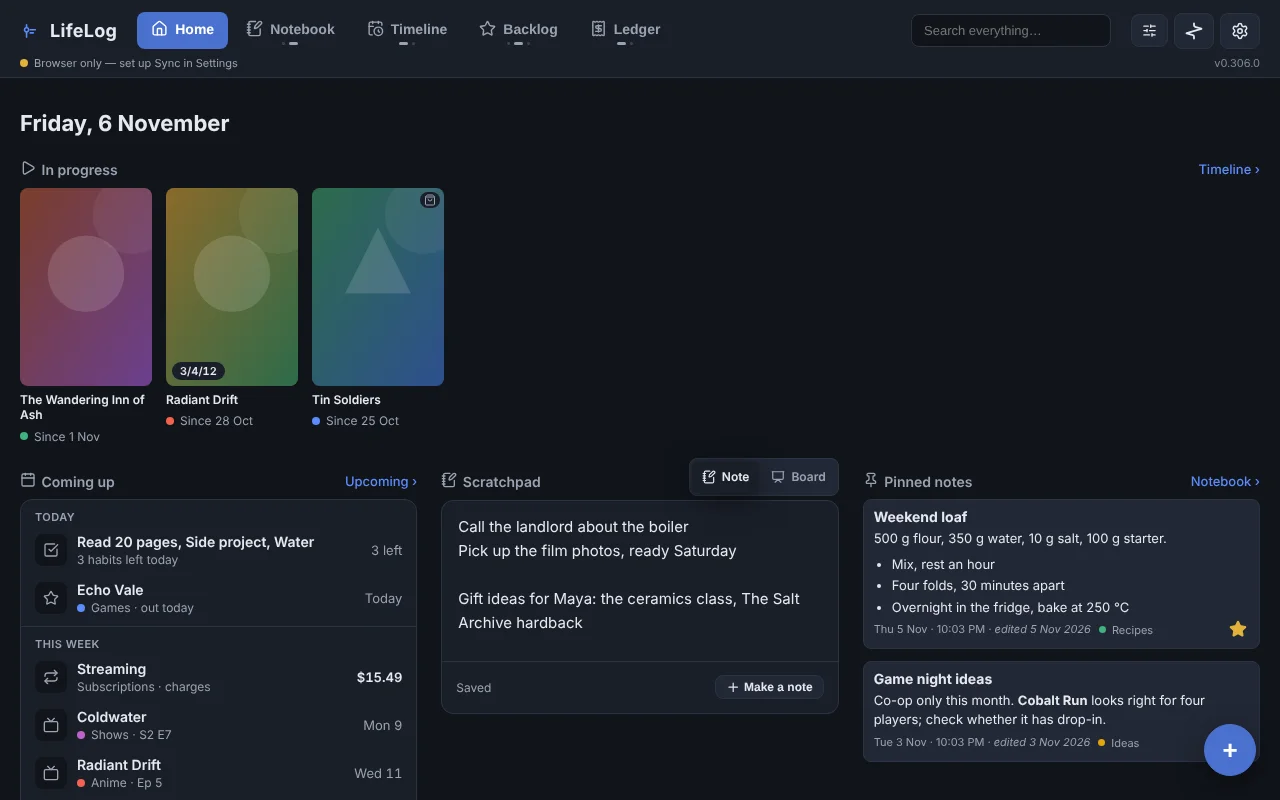
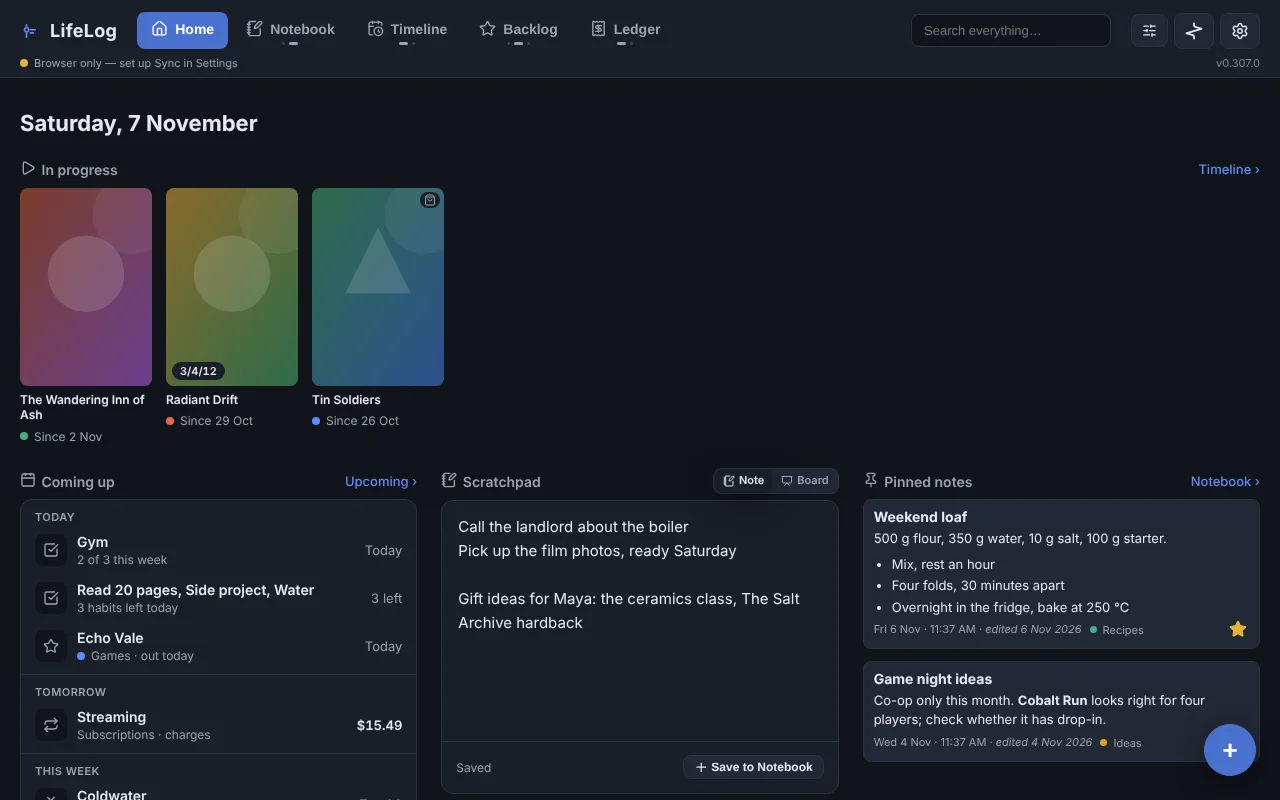
Home: slimmer Note / Board switch, no labels in Board, same height as the note (#59)
* Home: a slimmer Note / Board switch, no labels in Board, board as tall as the note

Daniel (2026-11-07): the switch was too tall, Board didn't need the Tap to
draw or foot labels, and Note and Board should be the same height. The
switch is 22px (28px on a phone) with a ::after tap area, so the head no
longer needs negative margins. The board measures what the text pad would
be (min 160px) with a hidden probe. Also: test/home.test.js found the daily
habit row by position, which broke on the last day of a week.

Claude-Session: https://claude.ai/code/session_01CFeKrjpXijdgWwZ1YkV6xG

* Home: a taller scratchpad, and Save to Notebook in both Note and Board

Daniel (2026-11-07): make the scratchpad a bit taller, and the Make a note /
Keep as a board button can just be Save to Notebook. The pad and the board
start at 240px (was 160px). The bridge tool keeps its keep option; only its
description and DATA.md name the new button.

Claude-Session: https://claude.ai/code/session_01CFeKrjpXijdgWwZ1YkV6xG

---------

diff --git a/test/browser/home.js b/test/browser/home.js
@@ -75,9 +75,9 @@ const SEED = {
   await page.reload({ waitUntil: "networkidle" }); await page.waitForTimeout(600);
   check("a reload on another tab stays on it", (await active()) === "backlog", await active());
   await page.click('#viewTabs .tab[data-view="home"]'); await page.waitForTimeout(400);
-  await page.click('.home-scratch button:has-text("Make a note")'); await page.waitForTimeout(500);
+  await page.click('.home-scratch button:has-text("Save to Notebook")'); await page.waitForTimeout(500);
   const made = await page.evaluate(() => { const d = window.LifeLogStorage.cachedCopy(); return { pad: d.settings.scratchpad, note: (d.notes.find((n) => n.text === "Buy stamps") || {}).id }; });
-  check("Make a note turns it into a note and clears the scratchpad", !!made.note && made.pad === undefined && (await page.inputValue("#homeScratchpad")) === "", made);
+  check("Save to Notebook turns it into a note and clears the scratchpad", !!made.note && made.pad === undefined && (await page.inputValue("#homeScratchpad")) === "", made);
 
   // ---- pinning from a note's ⋯ menu ----
   await page.evaluate(() => window.LifeLogNotes.openNote(window.LifeLogStorage.cachedCopy().notes.find((n) => n.id === "n2")));
@@ -105,7 +105,10 @@ const SEED = {
   check("and is kept for this device", JSON.stringify(vis.homeSections) === JSON.stringify(["pinned", "progress", "upcoming", "scratchpad"]) && vis.homeHidden.join() === "progress", vis);
 
   // ---- the scratchpad as a board ----
+  const padH = await page.evaluate(() => document.querySelector(".home-scratch .home-card").offsetHeight);
   await page.click('.home-pad-mode .seg-btn[data-mode="board"]'); await page.waitForTimeout(500);
+  const boardH = await page.evaluate(() => document.querySelector(".home-scratch .home-card").offsetHeight);
+  check("the board card is as tall as the note card", Math.abs(padH - boardH) <= 1, { padH, boardH });
   check("Board swaps the text pad for the scratch board", (await page.$("#homeScratchpad")) === null && (await page.textContent("#homeScratchBoard")).includes("Nothing drawn yet"));
   check("and is remembered for this device", await page.evaluate(() => JSON.parse(localStorage.getItem("lifelog-visual-settings-v1")).homeScratchMode) === "board");
   await page.click("#homeScratchBoard"); await page.waitForTimeout(500);
@@ -114,9 +117,9 @@ const SEED = {
   await page.click("#boardBack"); await page.waitForTimeout(500);
   const sb = await page.evaluate(() => ({ scratch: !!(window.LifeLogBoards.scratchBoard() || {}).scratch, listed: window.LifeLogBoards.boardsNow().length, thumb: !!document.querySelector("#homeScratchBoard svg") }));
   check("the drawing shows on Home, and stays out of the Boards list", sb.scratch && sb.listed === 0 && sb.thumb, sb);
-  await page.click('.home-scratch button:has-text("Keep as a board")'); await page.waitForTimeout(500);
+  await page.click('.home-scratch button:has-text("Save to Notebook")'); await page.waitForTimeout(500);
   const kept = await page.evaluate(() => ({ scratch: window.LifeLogBoards.scratchBoard(), listed: window.LifeLogBoards.boardsNow().map((b) => b.elements.length) }));
-  check("Keep as a board files it and leaves a blank one", kept.scratch === null && JSON.stringify(kept.listed) === "[1]" && (await page.textContent("#homeScratchBoard")).includes("Nothing drawn yet"), kept);
+  check("in Board, Save to Notebook files it and leaves a blank one", kept.scratch === null && JSON.stringify(kept.listed) === "[1]" && (await page.textContent("#homeScratchBoard")).includes("Nothing drawn yet"), kept);
   await page.click('.home-pad-mode .seg-btn[data-mode="note"]'); await page.waitForTimeout(400);
   check("Note brings the text pad back", (await page.$("#homeScratchpad")) !== null);
   const rowHeads = await page.evaluate(() => [...document.querySelectorAll(".home-pair .home-sec-head")].map((h) => Math.round(h.getBoundingClientRect().height)));

diff --git a/src/styles.css b/src/styles.css
@@ -4993,7 +4993,7 @@ html.force-mobile .place-grip { padding: var(--space-8); margin: calc(-1 * var(-
 .home-row-end.is-money { color: var(--text); font-weight: 600; }
 
 .home-pad {
-  display: block; width: 100%; min-height: 160px; resize: none; overflow: hidden; border: 0; outline: none; background: transparent;
+  display: block; width: 100%; min-height: 240px; resize: none; overflow: hidden; border: 0; outline: none; background: transparent;
   padding: var(--space-14) var(--space-16); color: var(--text); font: inherit; font-size: var(--fs-read); line-height: 1.6;
 }
 .home-pad::placeholder { color: var(--text-dim); }
@@ -5004,21 +5004,17 @@ html.force-mobile .place-grip { padding: var(--space-8); margin: calc(-1 * var(-
 /* Note / Board (src/home.js modeSwitch). Pulled into the head's line box
    with negative margins, so the Scratchpad head stays as tall as the heads
    beside it. */
-.home-pad-mode { margin: -14px 0 -6px auto; }
-.home-pad-mode .seg-btn { display: inline-flex; align-items: center; gap: var(--space-6); min-height: 32px; padding: 0 var(--space-10); font-size: var(--fs-xs); }
-.home-pad-mode .seg-btn .ico { width: 14px; height: 14px; }
+.home-pad-mode { margin: -4px 0 -4px auto; padding: 1px; gap: 1px; }
+.home-pad-mode .seg-btn { position: relative; display: inline-flex; align-items: center; gap: var(--space-4); min-height: 22px; padding: 0 var(--space-8); font-size: var(--fs-2xs); line-height: 1; }
+/* The tap area stays 44px tall on a phone without the switch growing. */
+.home-pad-mode .seg-btn::after { content: ""; position: absolute; inset: -11px 0; }
+.home-pad-mode .seg-btn .ico { width: 12px; height: 12px; }
 .home-board {
-  position: relative; display: flex; align-items: center; justify-content: center; width: 100%; height: 220px;
+  position: relative; display: flex; align-items: center; justify-content: center; width: 100%; height: 240px;
   padding: var(--space-14); border: 0; background: var(--bg); color: var(--text); font: inherit; cursor: pointer;
 }
 .home-board .board-thumb-svg { width: 100%; height: 100%; }
 .home-board-empty { color: var(--text-dim); font-size: var(--fs-sm); }
-.home-board-hint {
-  position: absolute; top: var(--space-10); right: var(--space-10); display: inline-flex; align-items: center; gap: var(--space-6);
-  padding: var(--space-4) var(--space-10); border-radius: var(--r-pill); background: var(--surface-card); border: 1px solid var(--border);
-  font-size: var(--fs-xs); color: var(--text-dim);
-}
-.home-board-hint .ico { width: 14px; height: 14px; }
 .home-card:has(.home-board:focus-visible) { border-color: var(--accent); }
 
 .home-pins { display: grid; grid-template-columns: repeat(auto-fill, minmax(260px, 1fr)); gap: var(--space-12); align-items: start; }
@@ -5031,12 +5027,12 @@ html.force-mobile .place-grip { padding: var(--space-8); margin: calc(-1 * var(-
   html:not(.force-pc) .home-tile { flex-basis: 112px; }
   html:not(.force-pc) .home-pins { grid-template-columns: minmax(0, 1fr); }
   html:not(.force-pc) .home-pad { font-size: var(--fs-lg); }
-  html:not(.force-pc) .home-pad-mode { margin: -8px 0 -4px auto; }
-  html:not(.force-pc) .home-pad-mode .seg-btn { min-height: 44px; }
+  html:not(.force-pc) .home-pad-mode .seg-btn { min-height: 28px; }
+  html:not(.force-pc) .home-pad-mode .seg-btn::after { inset: -8px 0; }
 }
 html.force-mobile .home-pair, html.force-mobile .home-pair.is-3 { grid-template-columns: minmax(0, 1fr); }
 html.force-mobile .home-tile { flex-basis: 112px; }
 html.force-mobile .home-pins { grid-template-columns: minmax(0, 1fr); }
 html.force-mobile .home-pad { font-size: var(--fs-lg); }
-html.force-mobile .home-pad-mode { margin: -8px 0 -4px auto; }
-html.force-mobile .home-pad-mode .seg-btn { min-height: 44px; }
+html.force-mobile .home-pad-mode .seg-btn { min-height: 28px; }
+html.force-mobile .home-pad-mode .seg-btn::after { inset: -8px 0; }

diff --git a/src/home.js b/src/home.js
@@ -257,7 +257,7 @@
   function fitPad() {
     if (!pad || !pad.isConnected) return;
     pad.style.height = "auto";
-    pad.style.height = Math.max(pad.scrollHeight, 160) + "px";
+    pad.style.height = Math.max(pad.scrollHeight, 240) + "px";
   }
   const markPad = (text) => { const s = $("#homePadState"); if (s) s.textContent = text; };
   async function savePad() {
@@ -317,7 +317,7 @@
     foot.appendChild(el("span", "spacer"));
     const make = el("button", "btn btn-small");
     make.type = "button";
-    make.append(ico("plus"), document.createTextNode(" Make a note"));
+    make.append(ico("plus"), document.createTextNode(" Save to Notebook"));
     make.title = "Save what's here as a note in your Notebook and clear the scratchpad";
     make.onclick = makeNote;
     foot.appendChild(make);
@@ -341,23 +341,38 @@
         open.appendChild(B.thumbnail(b));
         open.setAttribute("aria-label", "Open the scratch board");
       } else open.appendChild(el("span", "home-board-empty", "Nothing drawn yet"));
+      if (!open.hasAttribute("aria-label")) open.setAttribute("aria-label", "Draw on the scratch board");
     }
-    const hint = el("span", "home-board-hint");
-    hint.append(ico("pencil"), document.createTextNode(" Tap to draw"));
-    open.appendChild(hint);
     open.onclick = () => B.openScratch();
     card.appendChild(open);
+    requestAnimationFrame(() => matchPad(open));
     const foot = el("div", "home-pad-foot");
-    foot.appendChild(el("span", "home-pad-state", "Syncs like your boards"));
     foot.appendChild(el("span", "spacer"));
     const keep = el("button", "btn btn-small");
     keep.type = "button";
-    keep.append(ico("plus"), document.createTextNode(" Keep as a board"));
+    keep.append(ico("plus"), document.createTextNode(" Save to Notebook"));
     keep.title = "File this drawing as a board in your Notebook and start a blank one";
     keep.onclick = keepBoard;
     foot.appendChild(keep);
     card.appendChild(foot);
     return card;
+  }
+
+  // The board is as tall as the text pad would be here, so switching
+  // between Note and Board doesn't move what's under the card.
+  function matchPad(open) {
+    if (!open.isConnected) return;
+    const probe = el("textarea", "home-pad");
+    probe.value = state.data.settings.scratchpad || "";
+    probe.setAttribute("aria-hidden", "true");
+    probe.tabIndex = -1;
+    probe.style.position = "absolute";
+    probe.style.visibility = "hidden";
+    probe.style.width = open.offsetWidth + "px";
+    probe.style.height = "auto";
+    open.parentNode.appendChild(probe);
+    open.style.height = Math.max(probe.scrollHeight, 240) + "px";
+    probe.remove();
   }
 
   async function keepBoard() {

diff --git a/test/home.test.js b/test/home.test.js
@@ -57,9 +57,12 @@ test("habits still to do today are one row; a weekly goal short of its target is
     { id: "h3", name: "Gym", period: "week", target: 3, order: 2, startedAt: at(-10), marks: {} },
   ].map(Habits.sanitizeHabit) };
   const rows = Home.comingUp(data, today, deps).filter((r) => r.kind === "habit");
-  assert.strictEqual(rows[0].period, "day");
-  assert.strictEqual(rows[0].title, "Read, Walk");
-  assert.strictEqual(rows[0].count, 2);
+  // Found by period, not position: on the last day of a week the weekly
+  // goal is due today too and can sort first.
+  const daily = rows.find((r) => r.period === "day");
+  assert.ok(daily, JSON.stringify(rows));
+  assert.strictEqual(daily.title, "Read, Walk");
+  assert.strictEqual(daily.count, 2);
   const gym = rows.find((r) => r.title === "Gym");
   assert.ok(gym && gym.period === "week" && gym.target === 3 && gym.done === 0, JSON.stringify(rows));
 });

diff --git a/bridge/tools.js b/bridge/tools.js
@@ -1612,7 +1612,7 @@ const TOOLS = [
   },
   {
     name: "lifelog_update_board",
-    description: "Rename a drawing board, file it under a note category, or star it. keep files Home's scratch board as an ordinary board, as Keep as a board does. Its drawing isn't touched.",
+    description: "Rename a drawing board, file it under a note category, or star it. keep files Home's scratch board as an ordinary board, as Home's Save to Notebook does. Its drawing isn't touched.",
     input: { board: S.str("Its id or name"), name: S.str("New name"), category: S.str("A note category; empty for none"), fav: S.bool("Starred"), keep: S.bool("Home's scratch board only: file it in the Boards list (Home starts a blank one)") },
     required: ["board"],
     async run(a) {

diff --git a/src/boards.js b/src/boards.js
@@ -254,7 +254,7 @@
     // ★, as a note has (0.208.0): first on the Boards page and in Favourites.
     if (b.fav) out.fav = true;
     // Home's scratchpad in Board mode: kept out of the Boards list and the
-    // feed until Keep as a board files it.
+    // feed until Save to Notebook files it.
     if (b.scratch) out.scratch = true;
     return out;
   }

diff --git a/README.md b/README.md
@@ -53,9 +53,9 @@ anything from anywhere.
 What's on now, on one page, and where the app opens (a reload stays where
 you were). What you're in the middle of as covers; Coming up for the next
 two weeks, with releases and new episodes known to the day, recurring
-charges and the habits still left; a scratchpad that syncs, with Make a note
+charges and the habits still left; a scratchpad that syncs, with Save to Notebook
 to keep what's in it, or switched to Board to sketch on a board instead
-(Keep as a board files it); and the notes you pin from a note's ⋯ menu. View
+(Save to Notebook files it as a board); and the notes you pin from a note's ⋯ menu. View
 orders and hides the sections, per device, and Settings → Tabs turns Home
 off.
 

diff --git a/changes/fix-slim-scratch-switch.md b/changes/fix-slim-scratch-switch.md
@@ -1,0 +1,4 @@
+### Changed
+- Home's Note / Board switch is slimmer, about the height of the section title.
+- In Board mode the scratchpad drops the "Tap to draw" and "Syncs like your boards" labels, and the board is as tall as the note would be, so switching doesn't move the page.
+- The scratchpad is taller (240px before it grows), and its button is Save to Notebook in both Note and Board (was Make a note / Keep as a board).
